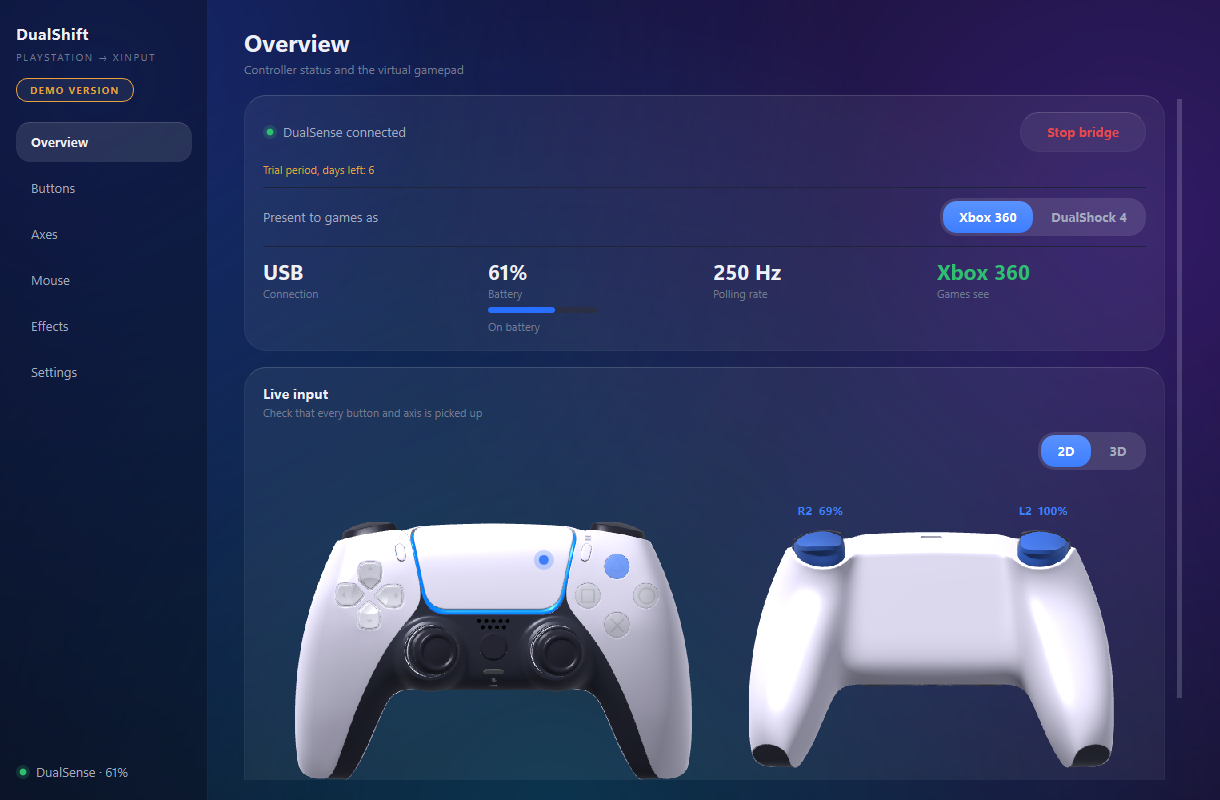
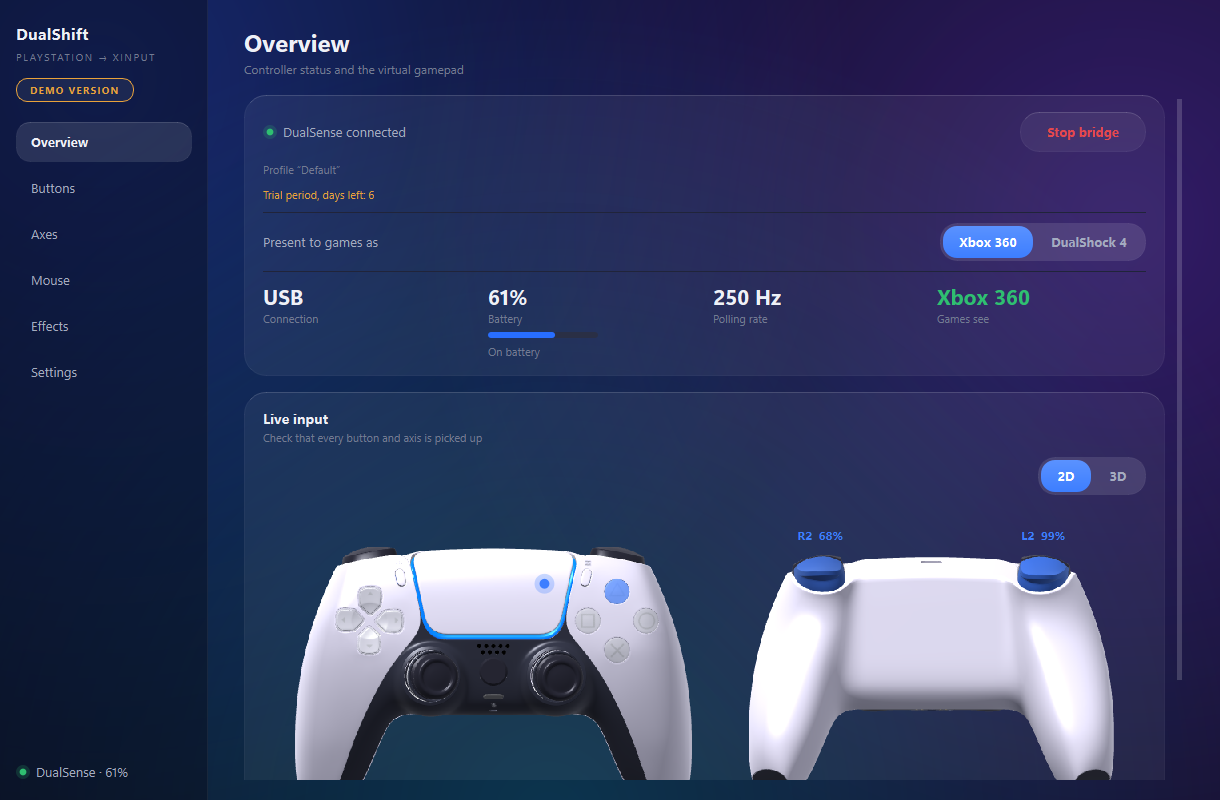
1.0.3: автосмена профилей по игре, турбо, предупреждение о заряде, уведомление о новой версии

diff --git a/README.md b/README.md
@@ -23,13 +23,20 @@ games have always understood. If a game does speak PlayStation, switch the
 output to DualShock 4 and keep the native button icons and the touchpad.
 
 **Rumble that arrives.** Force feedback from the game reaches the motors in
-your hands the way it does on a console. The strength is adjustable.
+your hands the way it does on a console. The strength is adjustable, and
+**Test rumble** checks both motors without starting a game.
 
 **Gyro aiming.** The stick does the big turn, a light move of the hands does
 the fine aim — the way console shooters are played, now on PC.
 
 **Adaptive triggers.** A trigger can resist, fire in bursts, or click at the
 moment of the shot. Tune it per game.
+
+**Turbo.** Hold a button and the game gets rapid repeated presses — from 2 to
+20 a second. Pick the buttons on the Buttons page: face buttons, shoulders,
+stick clicks, the D-pad, and L2 and R2 too.
+
+![Turbo](docs/09-turbo.png)
 
 **Mouse mode.** One button turns the pad into a mouse: move the cursor with a
 stick, the gyro or the touchpad, click with the shoulder buttons. Start a
@@ -47,14 +54,25 @@ combination. Works in games and in mouse mode.
 active — a browser, a search box, a chat. English, Russian and Kazakh
 layouts.
 
-**Per-game profiles.** Button mapping, stick dead zones and response curves,
-light bar, rumble and trigger settings are saved per game and switch with it.
+**Profiles that switch with the game.** Button mapping, stick dead zones and
+response curves, light bar, rumble, turbo and trigger settings are saved per
+game. Add the game to its profile — pick it from the programs that are open,
+or choose its .exe — and DualShift turns that profile on when the game comes
+to the front, then goes back to the previous one when you leave. Profiles can
+be exported to a file and imported on another PC or by a friend. You can also
+switch profiles from the tray icon, without opening the window.
+
+![Profiles](docs/08-auto-profiles.png)
 
 **Live controller model.** The Overview page shows your pad as a detailed
 model that reacts to every press: buttons light up and sink, sticks tilt,
 triggers travel as far as you pull them, the light bar glows in its real
 colour and touches appear on the touchpad. Look at it flat, front and back,
 or switch to 3D and turn it around with the mouse.
+
+**Low battery warning.** When the controller drops to 15%, and again at 5%,
+Windows shows a notification and the pad buzzes twice — so the match does not
+end with a dead controller.
 
 **14 interface languages**, light and dark theme.
 
@@ -82,6 +100,10 @@ or switch to 3D and turn it around with the mouse.
 3. Agree to install ViGEmBus when the installer offers it. This step asks for
    administrator rights — the driver needs them, DualShift itself does not.
 4. Connect the controller, open DualShift, press **Start bridge**.
+
+Already have an older version? Install on top — your settings, profiles and
+trial stay where they are. When a new version comes out, the Overview page
+tells you and links to the download.
 
 To remove it: Windows Settings → Apps → DualShift → Uninstall. ViGEmBus is
 left in place, other programs may be using it; it uninstalls the same way.
@@ -113,18 +135,24 @@ Settings, and the key comes back by mail.
 
 ## Privacy
 
-DualShift works offline. There is no account, no telemetry and no analytics —
-the trial dates and the key are stored on your own computer, and the program
-sends nothing on its own. The only thing that ever leaves your PC is the
-computer code, and only when you press **Buy a key** yourself: it goes into
-the Telegram link so the bot knows which computer to issue the key for.
+There is no account, no telemetry and no analytics — the trial dates, the key
+and your profiles are stored on your own computer.
+
+DualShift makes one request on its own: at startup it asks GitHub for the
+number of the latest release, to tell you when an update is out. Nothing about
+you, your PC or your controller goes with it, and you can turn it off in
+**Settings → About → Check for updates automatically**.
+
+The computer code leaves your PC only when you press **Buy a key** yourself:
+it goes into the Telegram link so the bot knows which computer to issue the
+key for.
 
 ## Verifying the download
 
-`DualShift Demo Setup.exe` 1.0.2 — 51.4 MB
+`DualShift Demo Setup.exe` 1.0.3 — 51.5 MB
 
 ```
-SHA-256  a948148129b5afabde0a8e9df08fcbd88b6813bfb57d4041aa8cab81035e3f0f
+SHA-256  bd95174a2a3a094f8c48a5aeb067b95764a3fc2bb1639986fee638250be5af97
 ```
 
 Check it in PowerShell before running:

diff --git a/docs/release-notes-1.0.3.md b/docs/release-notes-1.0.3.md
@@ -1,0 +1,40 @@
+Free for 7 days, every feature unlocked. Windows 10 and 11, 64-bit.
+
+**What's new in 1.0.3**
+
+- **Profiles switch with the game.** Add a game to a profile in **Settings → Profiles** — pick it from the programs that are open, or choose its .exe. When the game comes to the front, DualShift turns its profile on; when you leave, the previous profile comes back. The Overview page shows which profile is on and which game turned it on.
+- **Turbo.** Hold a button and the game gets rapid repeated presses, 2 to 20 a second. Choose the buttons on the **Buttons** page — face buttons, shoulders, stick clicks, the D-pad, and L2 and R2 too.
+- **Low battery warning.** At 15% and again at 5%: a Windows notification and two short buzzes on the controller. It can be turned off in Settings → Behaviour.
+- **Update notice.** At startup DualShift asks GitHub for the latest version number and tells you on the Overview page when a new one is out. Nothing else is sent; turn it off in Settings → About.
+- **Test rumble.** A button on the Effects page runs the left motor, then the right one — no game needed.
+- **Export and import profiles.** Save a profile to a file, load it on another PC or share it with a friend.
+- **Profiles from the tray.** Right-click the tray icon → Profile, and switch without opening the window.
+
+**What's inside**
+
+- Xbox 360 output, so games that ignore PlayStation pads work — or DualShock 4 output, for games that show native icons and use the touchpad
+- A live model of your controller, flat or in 3D
+- Rumble from the game, adjustable strength
+- Gyro aiming, adaptive triggers, your own light bar colour
+- Keyboard keys from the controller: PS + Options for Alt+Tab, and your own combos
+- Mouse mode: cursor from the stick, the gyro or the touchpad
+- On-screen keyboard that types into any window — English, Russian, Kazakh
+- Per-game profiles, dead zones and response curves, 14 interface languages
+
+**Installing**
+
+Run `DualShift Demo Setup.exe`. Windows shows a SmartScreen warning — the installer is not code-signed yet: **More info → Run anyway**. Agree to install the bundled ViGEmBus driver when the installer offers it; without it Windows cannot create the virtual controller.
+
+Already have an earlier version? Just install on top — your settings, profiles and trial stay where they are.
+
+**Verify the download**
+
[1 lines of base64/hex data omitted]
+
+```powershell
+Get-FileHash "$HOME\Downloads\DualShift Demo Setup.exe" -Algorithm SHA256
+```
+
+3D model: "Playstation 5 Dualsense" by AHarmlessPotato (Sketchfab), CC BY 4.0, modified.
+
+Bugs and questions — open an Issue. Please say which Windows version and controller you have, and whether it is connected by USB or Bluetooth.
